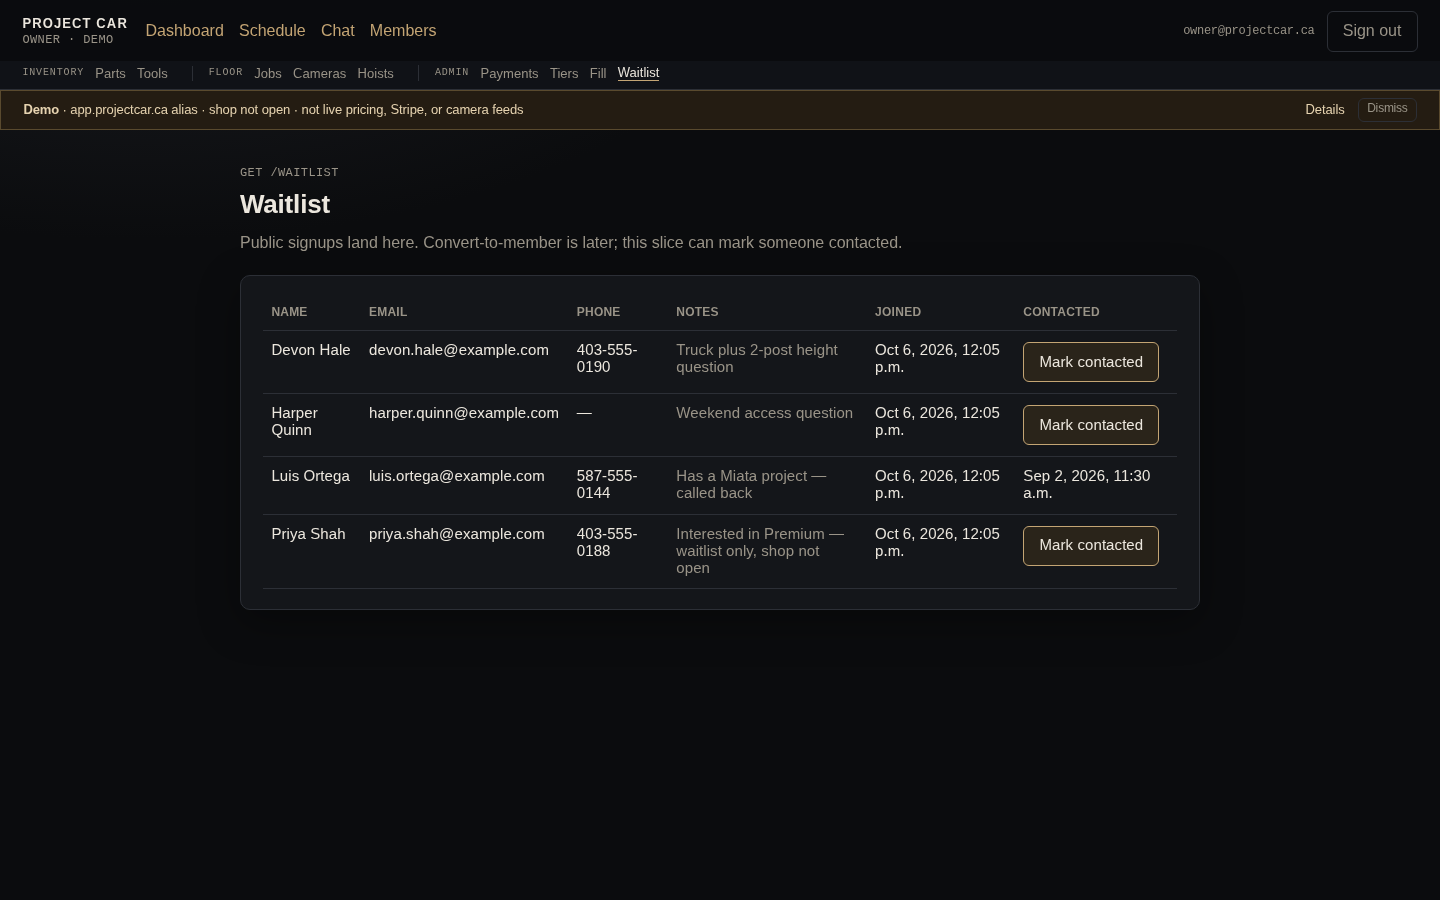
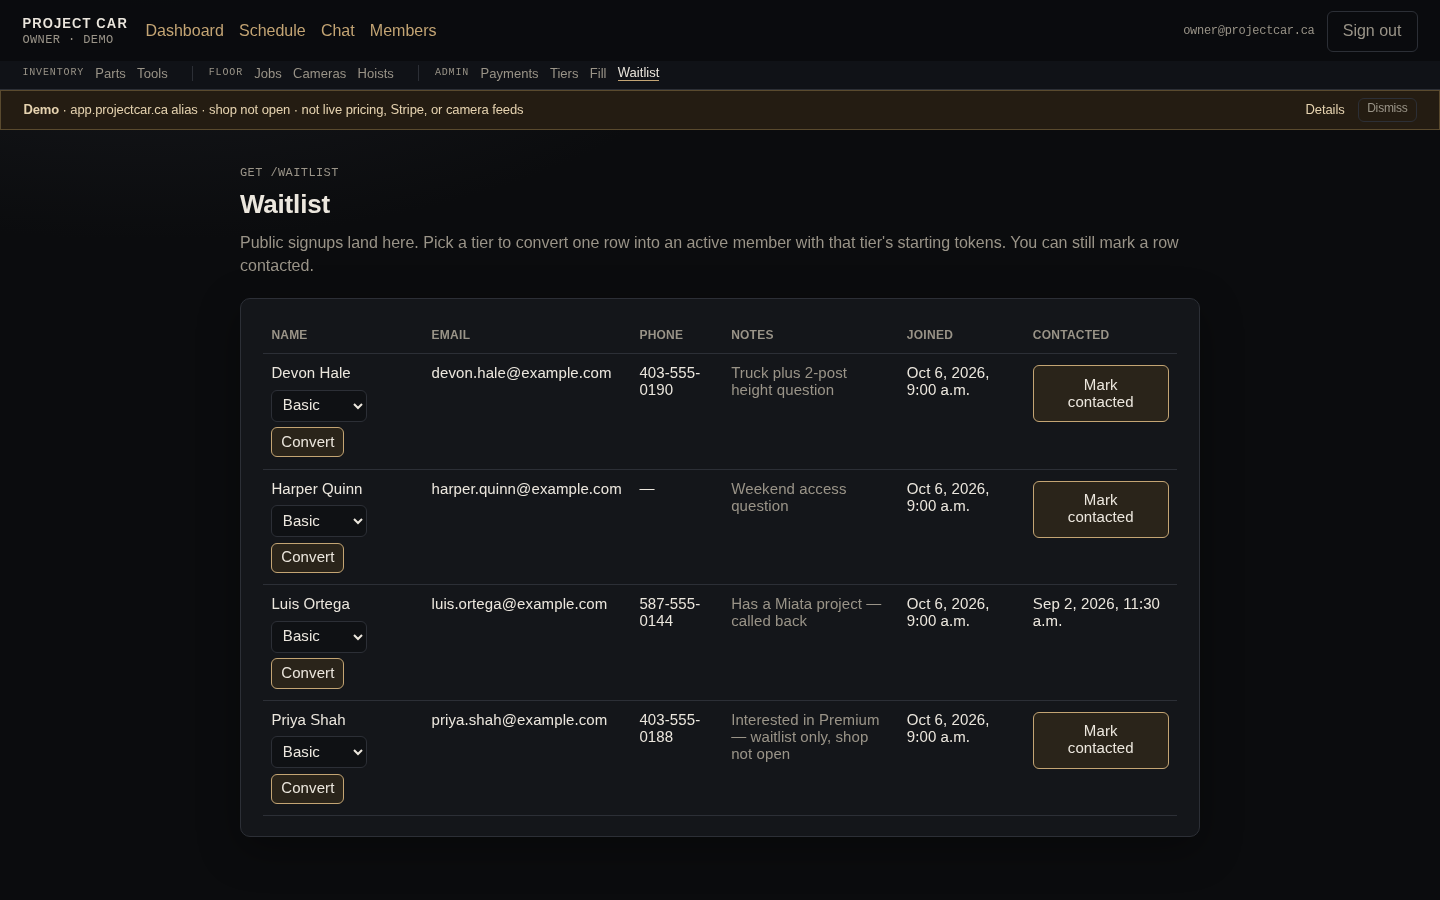
Stack the waitlist convert control under each name.
The tier select and Convert button stay in the name column so they fit the 390 viewport. Update the waitlist visual references at 390, 768, and 1440.

diff --git a/apps/project-car/web/app/waitlist/page.tsx b/apps/project-car/web/app/waitlist/page.tsx
@@ -25,7 +25,7 @@ function WaitlistMemberControl({
   return (
     <form
       action={convertWaitlistAction}
-      style={{ display: "flex", flexWrap: "wrap", gap: "0.35rem", alignItems: "center" }}
+      style={{ display: "flex", flexDirection: "column", alignItems: "flex-start", gap: "0.35rem" }}
     >
       <input type="hidden" name="id" value={entry.id} />
       <label className="sr-only" htmlFor={`tier-${entry.id}`}>
